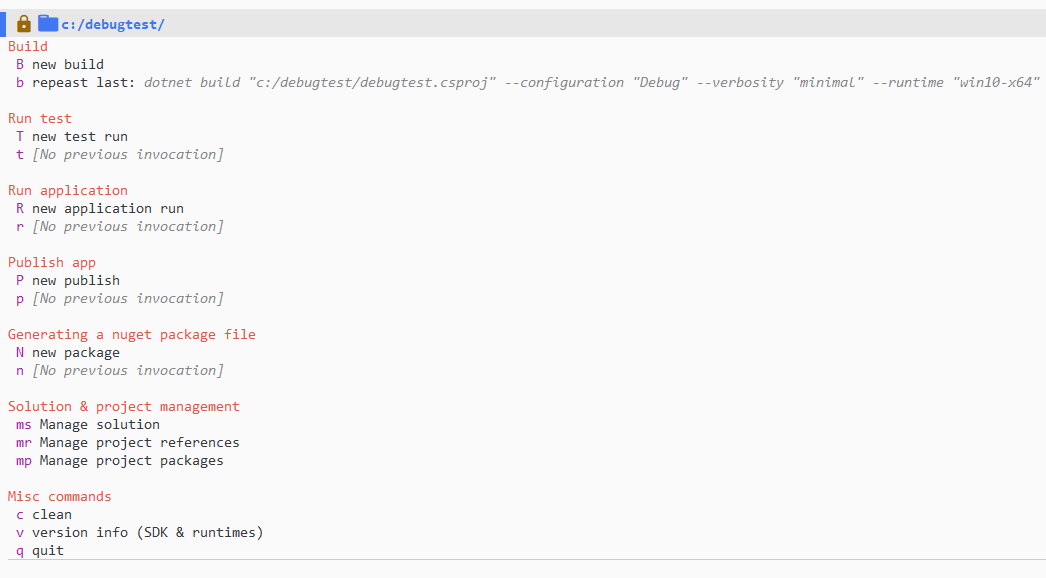
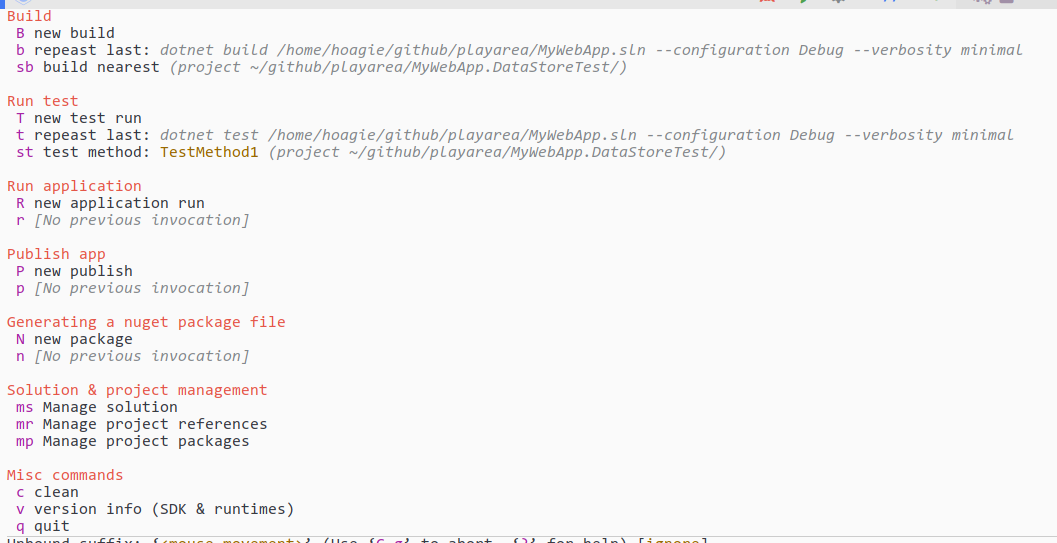
Update main menu screenshot with new options

diff --git a/README.md b/README.md
@@ -50,6 +50,15 @@ Some screenshots follow, so you know what to expect.
 After running a build for the first time, we can re-run it with the same parameters without going back to the Build menu. This applies to other common
 commands (test, publish, etc).
 
+There are two convenience commands for buils and tests:
+
+-`sb` stands for single build, and it will `dotnet build` the nearest project in the directory tree. For example if you 
+are editing a source file and want to build only the project you are currently working on rather the whole solution.
+
+-`st` or single test, that will run `dotnet test` filtering to the current method's name. This is useful if you are modifying a test and would like to 
+run only that method instead of your whole test suite. It uses the same logic as `sb` to find the project. The method name is detected using csharp-mode,
+and as a fallback the word at point instead.
+
 ### Build menu
 
 ![Build menu](/screenshots/buildmenu.png)
